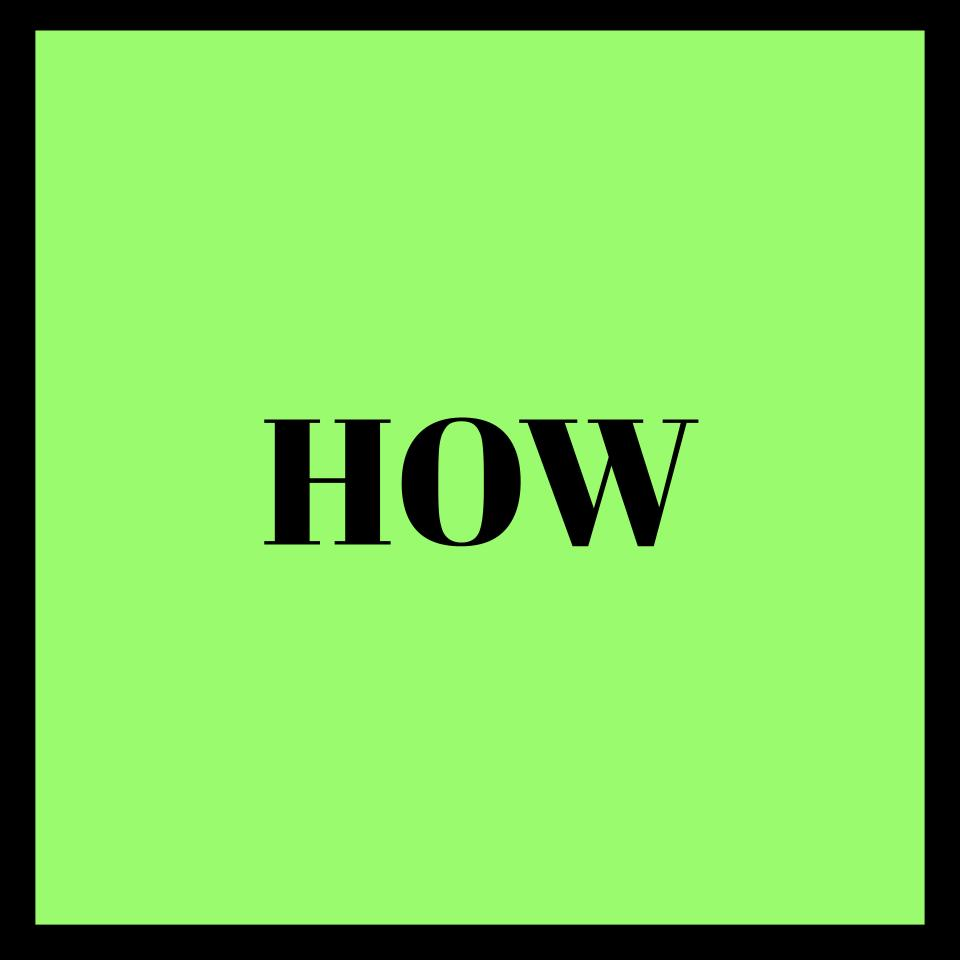
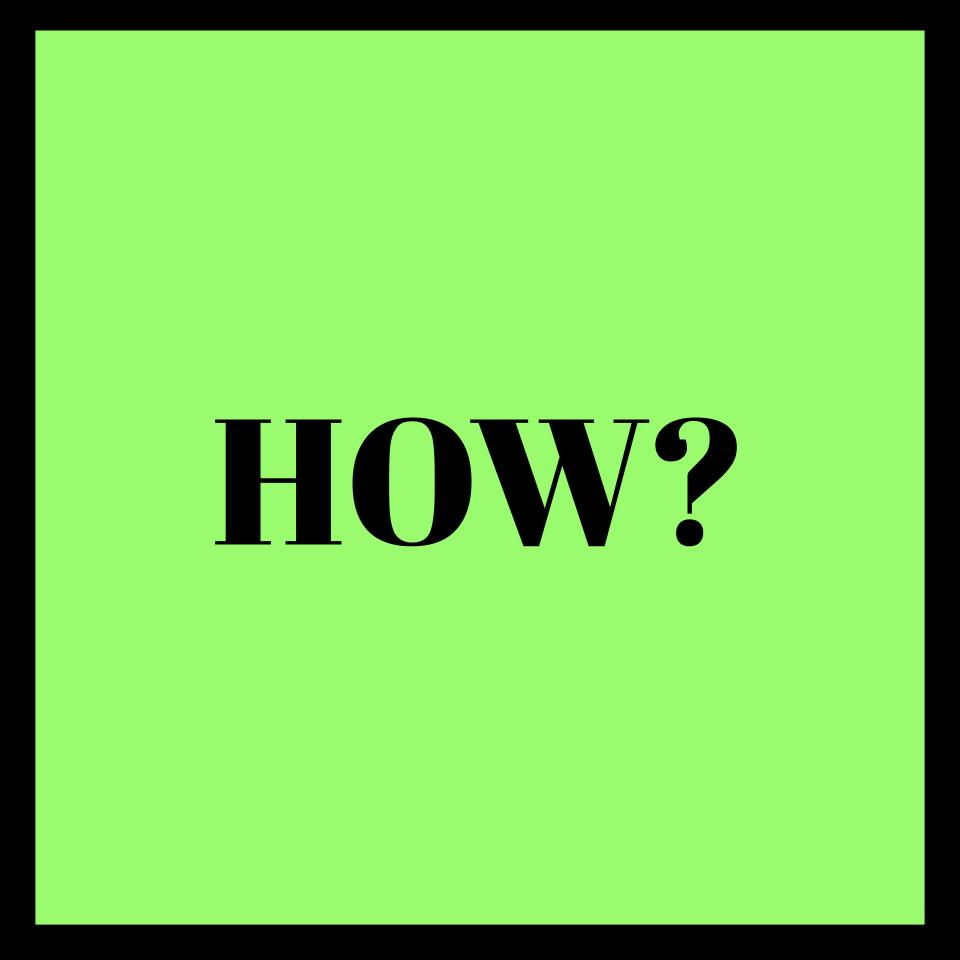
added question marks to cube face & face labels

Changed region(s): [[0.2188, 0.4375, 0.7812, 0.5938]]

diff --git a/client/src/levels/CubicLevel.js b/client/src/levels/CubicLevel.js
@@ -567,7 +567,7 @@ const CubicLevel = () => {
             ✱
           </button>
 
-          <h2 className="face-label">{labels[selectedFaceIndex]}</h2>
+          <h2 className="face-label">{labels[selectedFaceIndex]} ?</h2>
           <div className="text-area-container">
             <textarea
               id="text-area"
